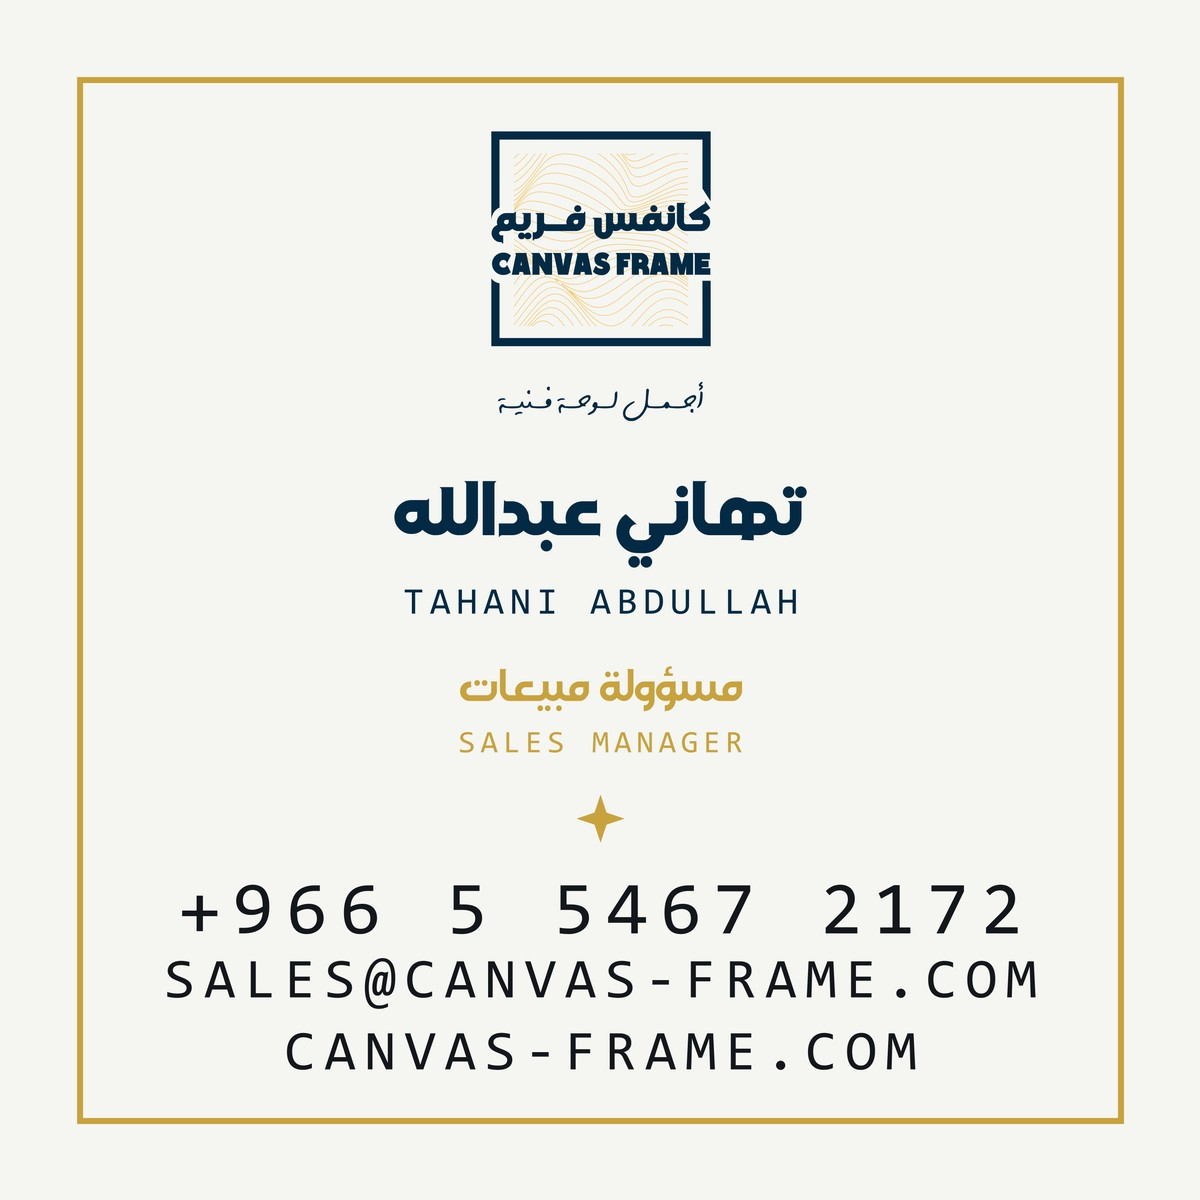
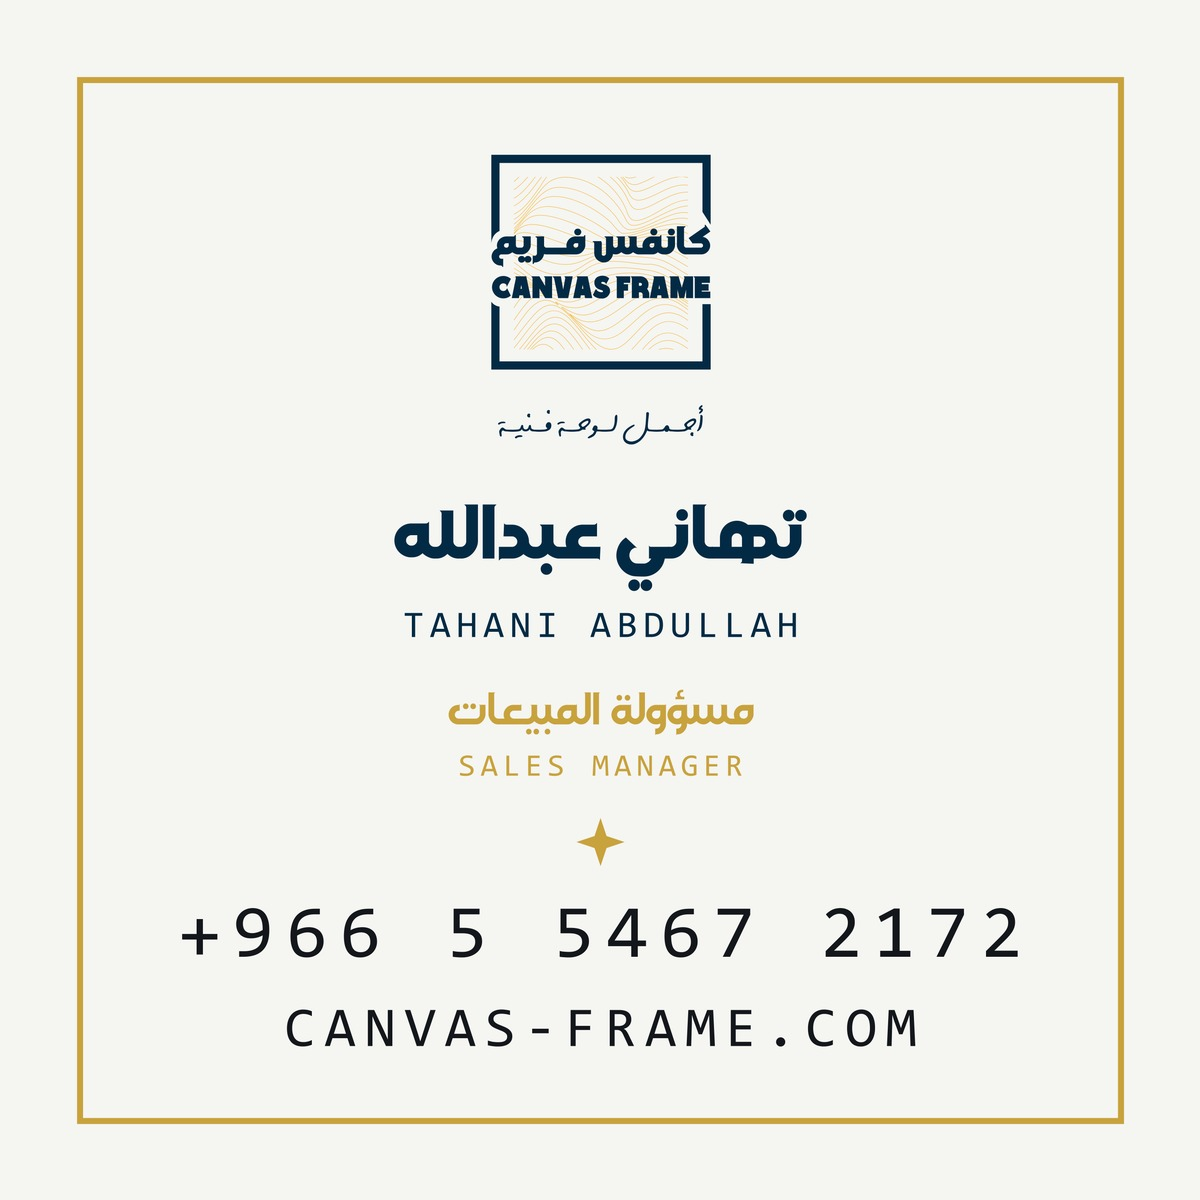
Use the brand tagline on the contact cards; drop the stop marks

Changed region(s): [[0.1233, 0.74, 0.8633, 0.8942], [0.3083, 0.4008, 0.6783, 0.7092], [0.4008, 0.0925, 0.6167, 0.37]]

diff --git a/tahani.html b/tahani.html
@@ -3,26 +3,26 @@
 <head>
 <meta charset="UTF-8">
 <meta name="viewport" content="width=device-width, initial-scale=1.0, viewport-fit=cover">
-<title>تهاني عبدالله — مسؤولة مبيعات | كانفس فريم</title>
+<title>تهاني عبدالله — مسؤولة المبيعات | كانفس فريم</title>
 
-<meta name="description" content="تواصل مباشر مع تهاني عبدالله، مسؤولة مبيعات في كانفس فريم — حلول اللوحات الفنية والطباعة للشركات وأصحاب الأعمال.">
+<meta name="description" content="تواصل مباشر مع تهاني عبدالله، مسؤولة المبيعات في كانفس فريم — حلول اللوحات الفنية والطباعة للشركات وأصحاب الأعمال.">
 <meta name="theme-color" content="#032b44">
 
 <meta property="og:type" content="website">
-<meta property="og:title" content="تهاني عبدالله — مسؤولة مبيعات | كانفس فريم">
-<meta property="og:description" content="تواصل مباشر مع تهاني عبدالله، مسؤولة مبيعات في كانفس فريم — حلول اللوحات الفنية للشركات وأصحاب الأعمال.">
+<meta property="og:title" content="تهاني عبدالله — مسؤولة المبيعات | كانفس فريم">
+<meta property="og:description" content="تواصل مباشر مع تهاني عبدالله، مسؤولة المبيعات في كانفس فريم — حلول اللوحات الفنية للشركات وأصحاب الأعمال.">
 <meta property="og:image" content="https://canvasframesa-lang.github.io/canvas-frame/tahani-card.jpg">
 <meta property="og:image:width" content="1200">
 <meta property="og:image:height" content="1200">
-<meta property="og:image:alt" content="بطاقة تهاني عبدالله — مسؤولة مبيعات كانفس فريم">
+<meta property="og:image:alt" content="بطاقة تهاني عبدالله — مسؤولة المبيعات كانفس فريم">
 <meta property="og:url" content="https://canvasframesa-lang.github.io/canvas-frame/tahani.html">
 <meta property="og:site_name" content="Canvas Frame">
 <meta property="og:locale" content="ar_SA">
 
 <meta name="twitter:card" content="summary_large_image">
 <meta name="twitter:site" content="@canvasframe_sa">
-<meta name="twitter:title" content="تهاني عبدالله — مسؤولة مبيعات | كانفس فريم">
-<meta name="twitter:description" content="تواصل مباشر مع تهاني عبدالله، مسؤولة مبيعات في كانفس فريم.">
+<meta name="twitter:title" content="تهاني عبدالله — مسؤولة المبيعات | كانفس فريم">
+<meta name="twitter:description" content="تواصل مباشر مع تهاني عبدالله، مسؤولة المبيعات في كانفس فريم.">
 <meta name="twitter:image" content="https://canvasframesa-lang.github.io/canvas-frame/tahani-card.jpg">
 
 <link rel="stylesheet" href="brand.css?v=6">
@@ -38,13 +38,13 @@
   <div class="statement">
     <span class="stamp">Sales Manager — Canvas Frame</span>
     <h1>
-      سعدنا بتواصلكم.
-      <em>ونبقى في خدمتكم.</em>
+      سعدنا بتواصلكم
+      <em>ونبقى في خدمتكم</em>
     </h1>
   </div>
 
   <div class="card">
-    <p>أنا <strong>تهاني عبدالله</strong>، مسؤولة مبيعات في كانفس فريم. نقدّم لعملائنا من الشركات وأصحاب الأعمال حلولاً متكاملة للوحات الفنية والطباعة — من اختيار العمل الفني حتى التسليم والتركيب، بجودة تليق بمساحاتكم.</p>
+    <p>أنا <strong>تهاني عبدالله</strong>، مسؤولة المبيعات في كانفس فريم. نقدّم لعملائنا من الشركات وأصحاب الأعمال حلولاً متكاملة للوحات الفنية والطباعة — من اختيار العمل الفني حتى التسليم والتركيب، بجودة تليق بمساحاتكم.</p>
     <div class="divider">
       <svg width="20" height="20" viewBox="0 0 24 24" aria-hidden="true"><path d="M12 0l3 9 9 3-9 3-3 9-3-9-9-3 9-3z"/></svg>
     </div>

diff --git a/contact.html b/contact.html
@@ -35,8 +35,8 @@
   <div class="statement">
     <span class="stamp">Sales Manager — Canvas Frame</span>
     <h1>
-      سعدنا بلقائكم.
-      <em>ونبقى في خدمتكم.</em>
+      سعدنا بلقائكم
+      <em>ونبقى في خدمتكم</em>
     </h1>
   </div>
 
